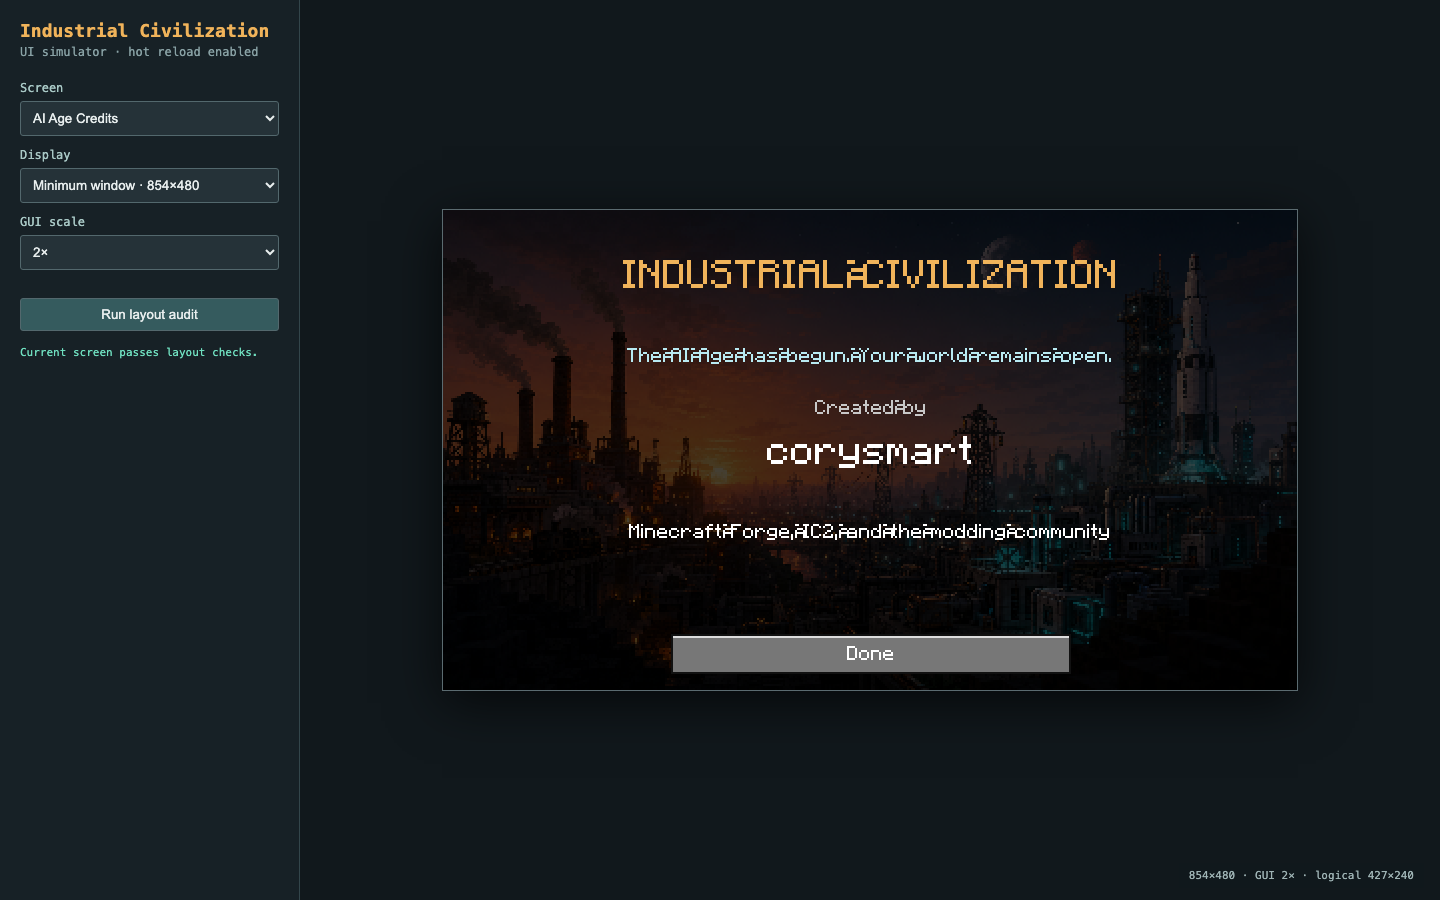
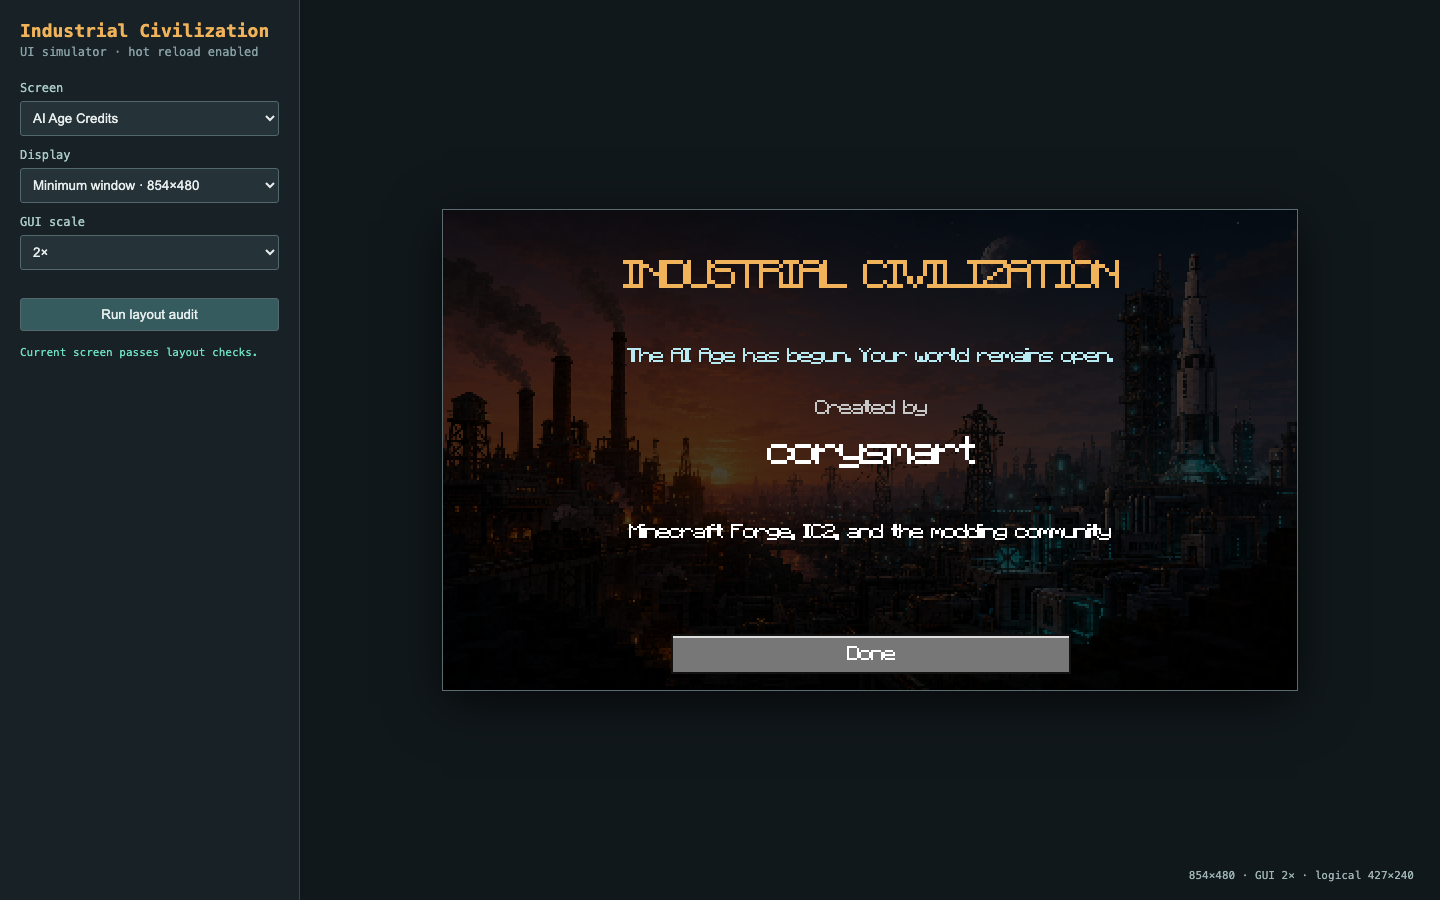
Fix UI simulator font rendering

diff --git a/tools/ui_simulator/app.js b/tools/ui_simulator/app.js
@@ -63,7 +63,7 @@ function drawText(text, x, y, color = "#ffffff", scale = 1) {
     const g = glyphMetrics(ch);
     if (g.fallback) {
       ctx.fillStyle = color; ctx.font = `${8 * scale}px monospace`; ctx.fillText(ch, dx, y + 7 * scale);
-    } else {
+    } else if (ch !== " ") {
       glyphContext.clearRect(0, 0, 8, 8);
       glyphContext.globalCompositeOperation = "source-over";
       glyphContext.drawImage(fontImage, g.sx, g.sy, 8, 8, 0, 0, 8, 8);
@@ -71,7 +71,13 @@ function drawText(text, x, y, color = "#ffffff", scale = 1) {
       glyphContext.fillStyle = color;
       glyphContext.fillRect(0, 0, 8, 8);
       glyphContext.globalCompositeOperation = "source-over";
-      ctx.drawImage(glyphCanvas, 0, 0, 8, 8, dx, Math.round(y), 8 * scale, 8 * scale);
+      // FontRenderer renders only charWidth - 1 source pixels, stretched across
+      // charWidth display pixels. Drawing the whole 8-pixel cell causes the
+      // next glyph to overwrite it and is why the first simulator build looked
+      // like every word had been crushed together.
+      const sourceWidth = Math.max(1, g.width - 1);
+      ctx.drawImage(glyphCanvas, 0, 0, sourceWidth, 8,
+        dx, Math.round(y), g.width * scale, 8 * scale);
     }
     dx += g.width * scale;
   }
@@ -135,6 +141,24 @@ function compactNumber(value) {
     ? scaled.toFixed(1) + suffixes[suffix] : String(nearest) + suffixes[suffix];
 }
 
+function renderHeiPanel(x, y, w, h, label, populated) {
+  rect(x, y, w, h, "rgba(35,41,45,.92)", "#8b989b");
+  centered(label, x + w / 2, y + 7, "#ddd");
+  const searchHeight = 14;
+  rect(x + 4, y + h - searchHeight - 4, w - 8, searchHeight, "#111719", "#9aa5a8");
+  drawText(populated ? "Search..." : "No bookmarks", x + 8, y + h - searchHeight - 1, "#9aa5a8");
+  if (!populated) return;
+  const slot = 18, columns = Math.max(1, Math.floor((w - 8) / slot));
+  const rows = Math.max(1, Math.floor((h - 42) / slot));
+  const palette = ["#7f9ca4", "#c47f39", "#6e8f55", "#b8b7af", "#8d6ba8", "#a9554d", "#c4ae45"];
+  for (let row = 0; row < rows; row++) for (let column = 0; column < columns; column++) {
+    const sx = x + 4 + column * slot, sy = y + 22 + row * slot;
+    rect(sx, sy, 16, 16, "#5a6062", "#aeb5b6");
+    const color = palette[(row * columns + column) % palette.length];
+    rect(sx + 4, sy + 4, 8, 8, color, "#263034");
+  }
+}
+
 function machineLayout(d, machine, energyPercent, operations, auditScreen = "machine") {
   const gui = {x: Math.floor((d.width - 176) / 2), y: Math.floor((d.height - 166) / 2), w: 176, h: 166};
   if (!contained(gui, {x: 0, y: 0, w: d.width, h: d.height})) issue(auditScreen, "176×166 machine panel does not fit the logical viewport", gui);
@@ -158,8 +182,8 @@ function renderMachine(d, machineOverride, auditScreen) {
   if ($("hei").checked) {
     const gap = 4;
     const leftW = Math.max(0, gui.x - gap), rightX = gui.x + gui.w + gap;
-    if (leftW >= 64) { rect(2, 18, leftW - 4, d.height - 36, "#23292ddd", "#8b989b"); centered("Bookmarks", leftW / 2, 25, "#ddd"); }
-    if (d.width - rightX >= 64) { rect(rightX, 18, d.width - rightX - 2, d.height - 36, "#23292ddd", "#8b989b"); centered("HEI Items", (rightX + d.width) / 2, 25, "#ddd"); }
+    if (leftW >= 64) renderHeiPanel(2, 18, leftW - 4, d.height - 36, "Bookmarks", false);
+    if (d.width - rightX >= 64) renderHeiPanel(rightX, 18, d.width - rightX - 2, d.height - 36, "HEI Items", true);
   }
   ctx.drawImage(machineTexture, 0, 0, 176, 166, gui.x, gui.y, 176, 166);
   const energyHeight = Math.floor(48 * state.energy / machine.capacity);
